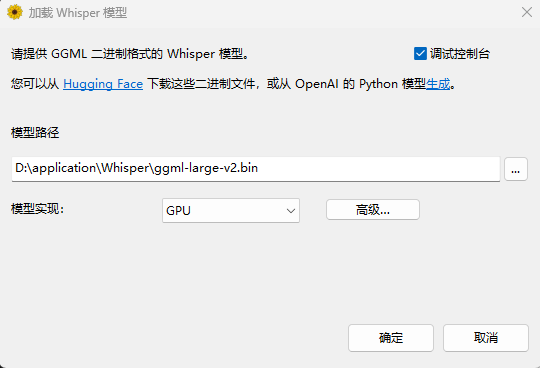
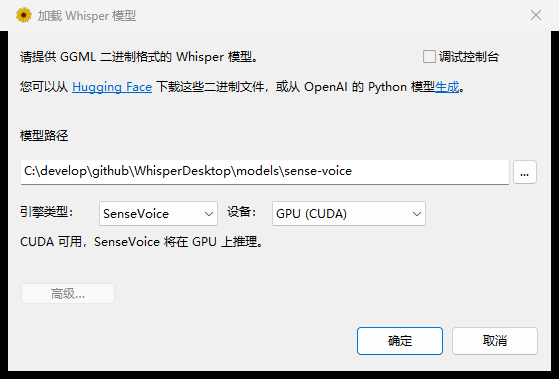
docs: 补充批量转写调度说明，更新界面截图
Readme 上一次更新（e41c3ac）只覆盖了 SenseVoice CPU/GPU 的安装，
最近几个提交新增的批量转写调度完全没有记录。

- 新增「批量转写：引擎与并发调度」一节：说明引擎 / 并发 / GPU+CPU
  三个控件，CPU 按核数与内存、GPU 按显存推算并发数的规则，
  以及异构模式下 GPU 槽不受输入框影响、CPU 槽排在前面等行为
- 「在界面上切换 CPU / GPU」改为「在界面上选择引擎」，补充引擎类型 /
  模型实现 / 设备三个下拉框的说明，注册表表格补全 modelPath 与 modelImpl
- 准备运行库一节：修正 -Cuda -Force 的误导写法，说明 CPU 包与 CUDA 包
  都解压到同一个 lib\，CUDA 包已含 CPU 所需 DLL
- 补充多卡机器只使用最大显存那张卡的说明
- 主要特性与二次开发说明各补一条关于调度器的描述
- 重新截取加载模型与转录文件两张截图

另：
- fetch.ps1 注释里不存在的 -Cuda13 参数
- vcxproj 的 PostBuild 注释改用 // 并缩进，避免 rem 在 cmd 中的跨行解析问题

diff --git a/Readme.md b/Readme.md
@@ -44,14 +44,18 @@ Whisper 与 SenseVoice 两种引擎的运行库都不入库，需要本地拉取
 ```powershell
 # Whisper（ggml）：由解决方案中的 Whisper 项目生成 Whisper.dll
 
+# 下面两种包二选一，它们都解压到同一个 lib\ 目录
+
 # SenseVoice CPU 版（约 22MB）
 .\third_party\sherpa-onnx\fetch.ps1
 
 # SenseVoice CUDA/GPU 版（约 460MB，含 onnxruntime_providers_cuda.dll）
-.\third_party\sherpa-onnx\fetch.ps1 -Cuda -Force
+# CUDA 包里同样包含 CPU 所需的 DLL，装了它就不必再拉 CPU 版
+.\third_party\sherpa-onnx\fetch.ps1 -Cuda
 ```
 
-生成的 DLL 会由项目的 PostBuild 事件自动复制到输出目录（`x64\Debug` 或 `x64\Release`）。
+生成的 DLL 会由项目的 PostBuild 事件自动复制到输出目录（`x64\Debug` 或 `x64\Release`）；
+当 `lib\` 里存在 `onnxruntime_providers_cuda.dll` 时，会连同 CUDA 相关 DLL 一起复制。
 
 ### 3. 运行桌面程序
 
@@ -117,7 +121,17 @@ dotnet run --project Examples\MicrophoneCS\MicrophoneCS.csproj -c Debug -p:Platf
 除 Whisper 之外，程序内置了 [sherpa-onnx](https://github.com/k2-fsa/sherpa-onnx) 驱动的 SenseVoice 引擎：
 模型体积小、CPU 上速度很快，原生支持中 / 英 / 日 / 韩 / 粤。
 
-### 在界面上切换 CPU / GPU
+### 在界面上选择引擎
+
+「加载 Whisper 模型」界面底部有三个下拉框：
+
+| 控件 | 说明 |
+| --- | --- |
+| **引擎类型** | `Whisper` / `SenseVoice` |
+| **模型实现** | 仅 Whisper 有效，即上游的 CUDA / Direct3D 等实现 |
+| **设备** | 仅 SenseVoice 有效，可选 `CPU` 或 `GPU (CUDA)`；CUDA 不可用时显示为 `GPU (CUDA，不可用)`，下方小字写明缺哪个 DLL |
+
+操作步骤：
 
 1. 点「返回」进入 **加载 Whisper 模型** 界面
 2. 在「引擎类型」里选择 **SenseVoice**
@@ -130,12 +144,13 @@ dotnet run --project Examples\MicrophoneCS\MicrophoneCS.csproj -c Debug -p:Platf
 
 | 值 | 含义 |
 | --- | --- |
-| `engine` | `sherpa-sensevoice` / Whisper 引擎 id |
+| `engine` | `whisper-gpu` / `sherpa-sensevoice` / `sherpa-sensevoice-gpu` |
+| `modelPath` | Whisper 的 ggml 模型路径 |
+| `modelImpl` | Whisper 的实现选择 |
 | `senseVoiceDir` | SenseVoice 模型目录 |
 | `senseVoiceDevice` | `cpu` 或 `gpu` |
 
-转写界面的「引擎」下拉框会随之显示为 `SenseVoice (CPU)` 或 `SenseVoice (GPU)`，
-只有真正跑在 GPU 上时，「GPU+CPU」异构调度按钮才会变为可用。
+转写界面的「引擎」下拉框默认跟随这里的选择，也会记住上次手动切换的结果。
 
 ### GPU（CUDA）需要的条件
 
@@ -180,7 +195,62 @@ CUDA 环境在 Windows 上很容易「看起来装了但跑不起来」，程序
 - 模型下载：推荐使用 `model.int8.onnx`（约 230MB）与 `tokens.txt`，通常从 HuggingFace 上的
   SenseVoiceSmall 仓库获取；也可以换成 `model.onnx`（fp32，体积更大）。
 - 同一时间建议只用一张卡跑 SenseVoice；GPU 模式下程序会按显存限制并发数。
+- 多卡机器目前只会使用可用显存最大的那块卡，没有做跨卡分流。
 - SenseVoice 的语言下拉框只认 自动 / 中文 / 英语 / 日语 / 韩语 / 粤语，其它语言会自动按「自动」处理。
+
+---
+
+## 批量转写：引擎与并发调度
+
+“转录文件”界面按操作顺序分成四块：**待转录文件 → 语言与引擎 → 输出 → 操作按钮**。
+
+| 控件 | 位置 | 说明 |
+| --- | --- | --- |
+| **添加文件… / 移除选中 / 清空列表** | 文件列表右侧 | 列表支持多选（Ctrl / Shift） |
+| **语言** | 语言与引擎 | 识别语言，另有“翻译为英文”勾选框 |
+| **引擎** | 语言与引擎 | `Whisper (GPU)` / `SenseVoice (CPU)` / `SenseVoice (GPU)`；默认跟随“加载模型”界面的选择 |
+| **并发** | 语言与引擎 | 同时处理几个文件。留空或填 `0` 表示自动，按硬件推算；点击“开始转录”后输入框会回填实际使用的值 |
+| **GPU+CPU** | 语言与引擎 | 异构并行开关。引擎列表里同时存在 GPU 条目和 CPU 条目时可用，否则置灰 |
+| **输出格式 / 保存到源文件所在目录 / 输出文件夹** | 输出 | 格式选“不输出”时整区置灰；勾选“保存到源文件所在目录”时输出文件夹置灰 |
+| **开始转录** | 底部右侧 | 列表为空时置灰；转录中变为“停止转录” |
+
+转录过程中，文件列表会实时显示每个文件的状态（待办的 / 执行中 / 完成 / 失败）、
+进度百分比和已用时间，底部进度条显示运行中任务的平均进度。
+
+### 并发数是怎么算出来的
+
+自动模式下按引擎类型分别推算，取各项上限中的最小值：
+
+| 引擎 | 推荐并发 |
+| --- | --- |
+| SenseVoice CPU | `min(逻辑核 × 2/3, 可用内存扣 1.5GB 后 × 70% ÷ 单实例内存)` |
+| SenseVoice GPU | `min(逻辑核 × 2/3, (可用显存 − 512MB) × 70% ÷ 单实例显存)` |
+| Whisper (GPU) | 固定 `1`（不申报单实例显存占用，保守处理） |
+
+几点说明：
+
+- 显存取的是 DXGI 报告的「本进程可用显存预算」，已经扣掉其它程序占用的部分
+- 并发数不会超过待办文件数，避免多出来的线程白加载一遍模型
+- 手填的并发数也会被上面的硬件上限截断，超出时会记一条警告日志
+- GPU 模式多用显存不会像内存那样借用回系统内存，超出会掉到内存、性能断崖式下跌，
+  所以留了 30% 余量
+
+### GPU+CPU 异构并行
+
+勾选后，GPU 槽和 CPU 槽共享同一个任务队列，谁空闲谁取下一个文件：
+
+- **CPU 槽数量**：用输入框里填的值，没填就按 CPU 引擎的推荐值
+- **GPU 槽数量**：按显存推算，输入框里的值**不影响** GPU 槽
+- 槽位总数同样不超过待办文件数，且 CPU 槽排在前面
+  → 文件数较少时会优先分配到 CPU 槽（SenseVoice 是非自回归模型，单文件速度很快）
+- 选中的是 CPU 变体、但同类实现还有 GPU 变体时，同样能组成异构
+- 选中的是 GPU 变体时，会优先用同一实现的 CPU 变体配对（例如
+  `SenseVoice (GPU)` + `SenseVoice (CPU)`），两边的速度和文本风格更一致
+- Whisper 只有 GPU 条目、没有 CPU 变体，所以单独用 Whisper 时这个开关不可用
+
+这些选项（引擎、并发数、异构并行）会记在注册表里，下次打开自动恢复。
+
+---
 
 ## 界面与功能概览
 
@@ -192,7 +262,8 @@ CUDA 环境在 Windows 上很容易「看起来装了但跑不起来」，程序
 ---
 
 ### 转录文件
-批量转录本地音频或视频文件，适合整理录音资料
+批量转录本地音频或视频文件，适合整理录音资料。
+可选识别引擎、设置并发数，或勾选「GPU+CPU」让显卡和处理器同时干活。
 
 ![转录文件界面](images/转录音频文件.png)
 
@@ -217,6 +288,7 @@ CUDA 环境在 Windows 上很容易「看起来装了但跑不起来」，程序
 - 基于 Whisper 模型的本地语音识别
 - 支持批量文件转录与实时麦克风转录
 - **内置 SenseVoice 引擎**：支持中 / 英 / 日 / 韩 / 粤，可在界面上切换 **CPU / GPU (CUDA)**
+- **批量转写多引擎调度**：可选引擎、按 CPU / 显存自动推算并发数，支持 GPU+CPU 异构并行
 - Windows 原生实现：基于 MSVC 开发，无需 Python 或额外运行时
 - 支持 GPU 加速（Direct3D 11）：适配 RTX 3070 Ti 等主流显卡
 - SenseVoice 支持 CUDA 加速（ONNX Runtime CUDA EP），不可用时自动回退 CPU
@@ -245,6 +317,7 @@ CUDA 环境在 Windows 上很容易「看起来装了但跑不起来」，程序
 - 功能取舍与精简，面向日常使用场景
 - **新增 SenseVoice 引擎**（sherpa-onnx）：中 / 英 / 日 / 韩 / 粤，可在界面切换 CPU / GPU
 - 引擎抽象层（`Examples\WhisperDesktop\Asr\`）：统一 Whisper 与 SenseVoice 的加载与并发调度
+- 批量转写调度器：按引擎能力（`sAsrEngineInfo`）自动推算并发、支持 GPU / CPU 异构槽位共享队列
 
 > 本仓库更侧重“拿来即用”，而非底层实现细节。
 
